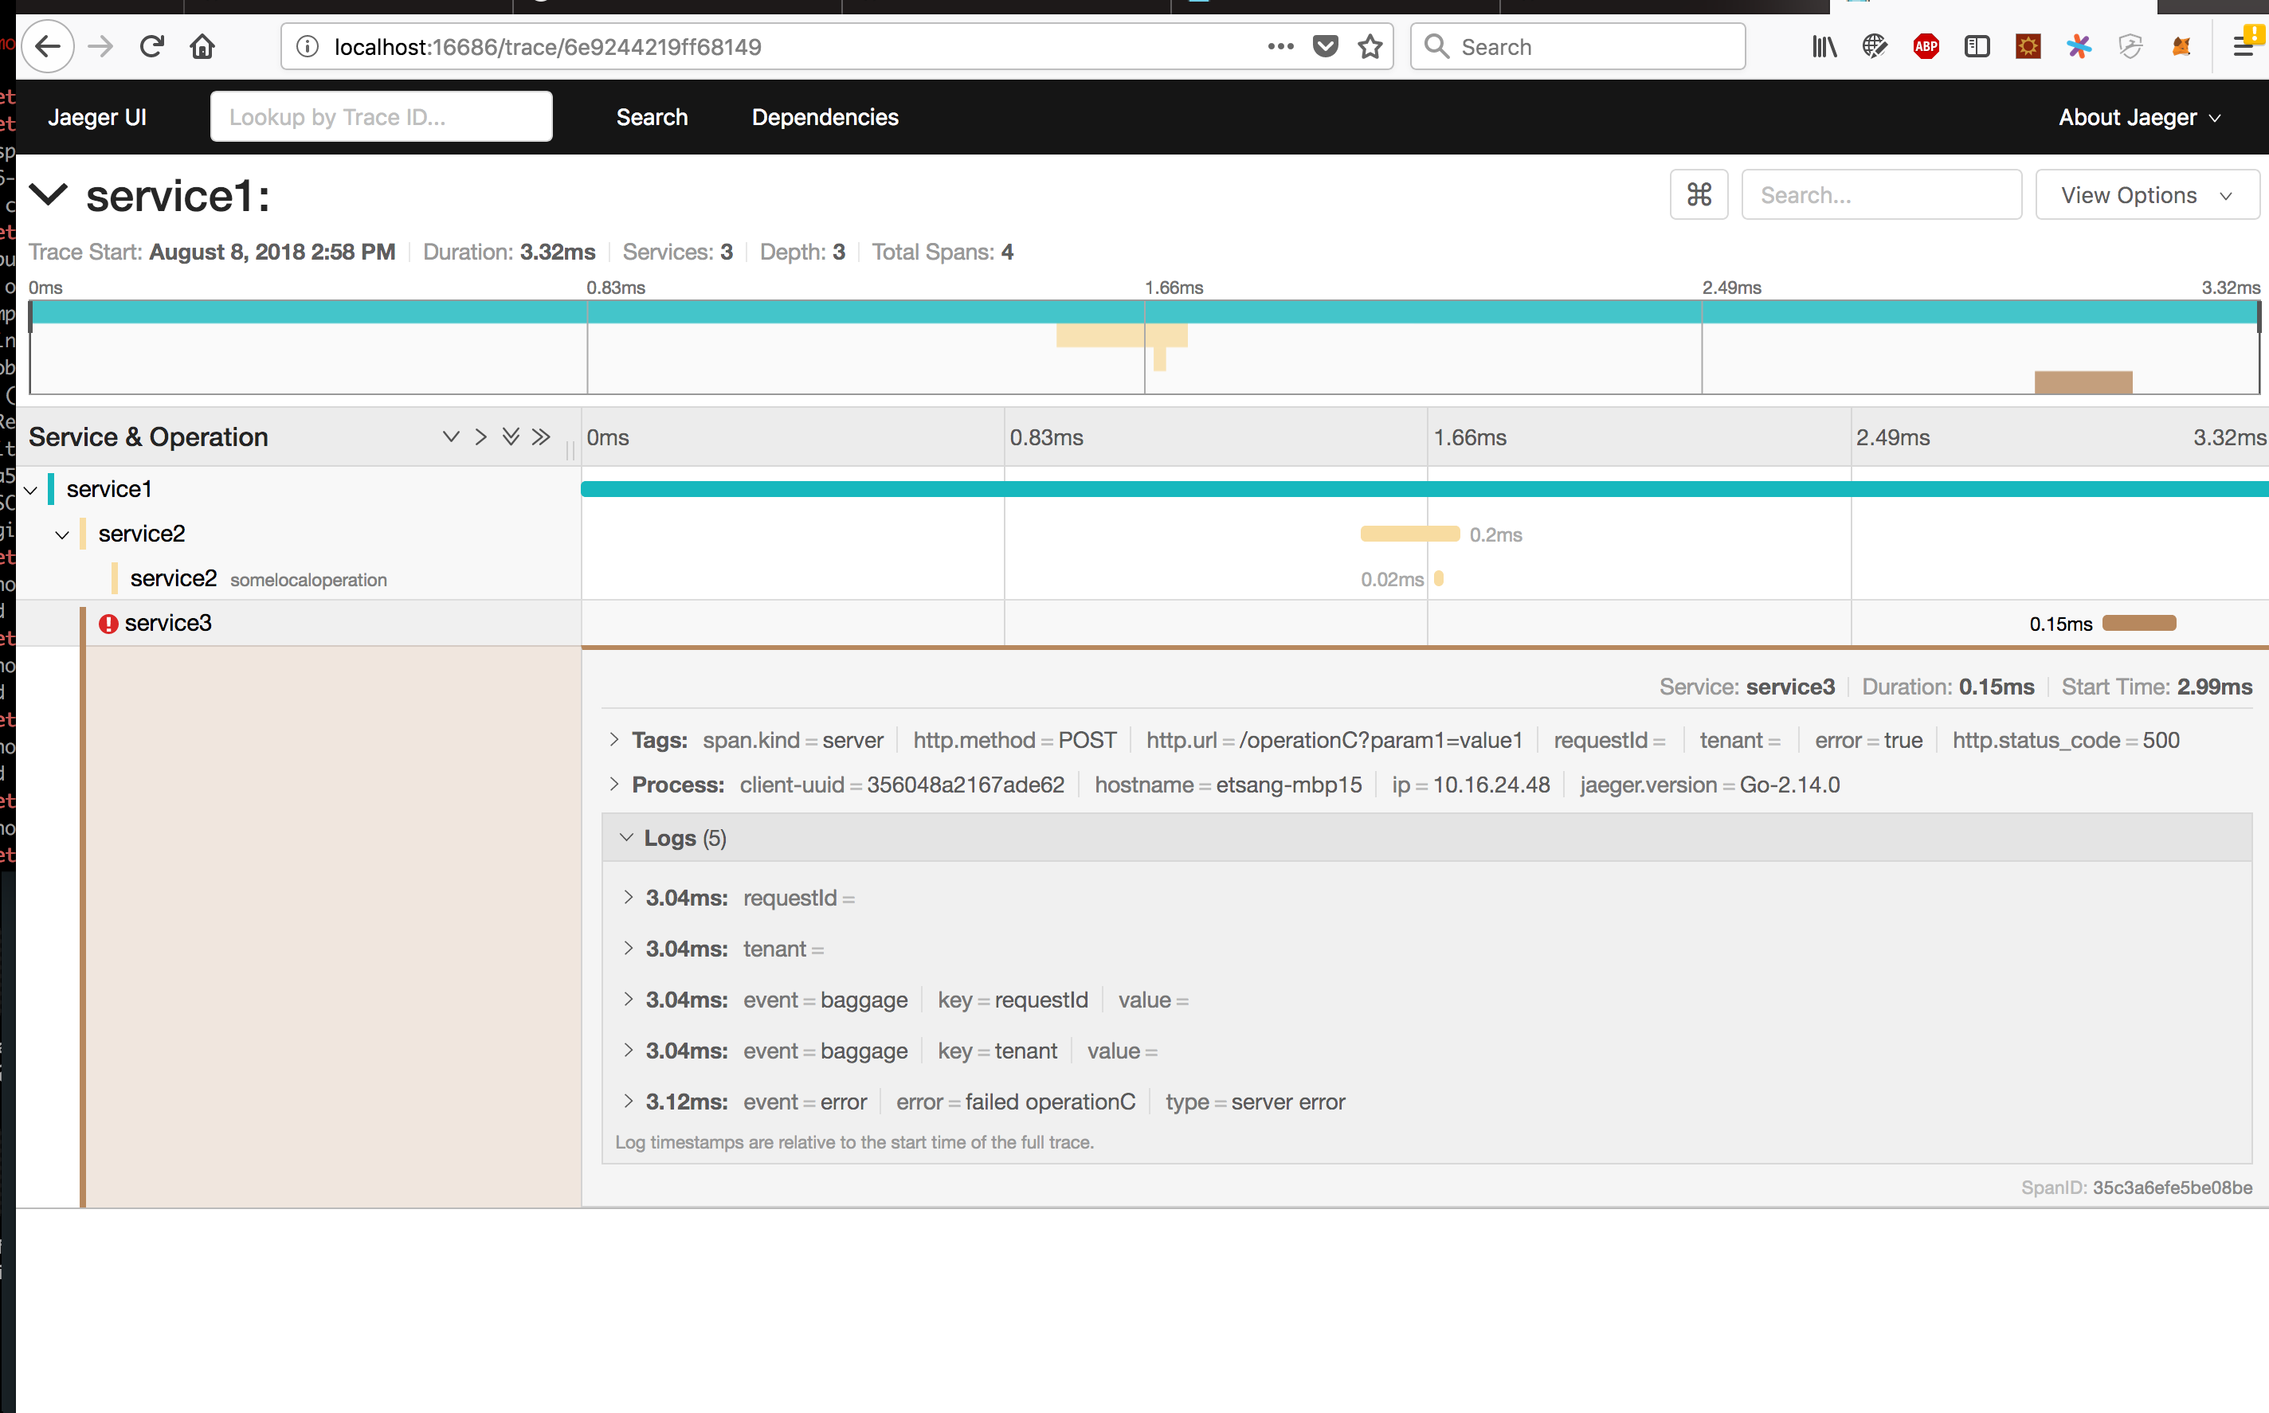
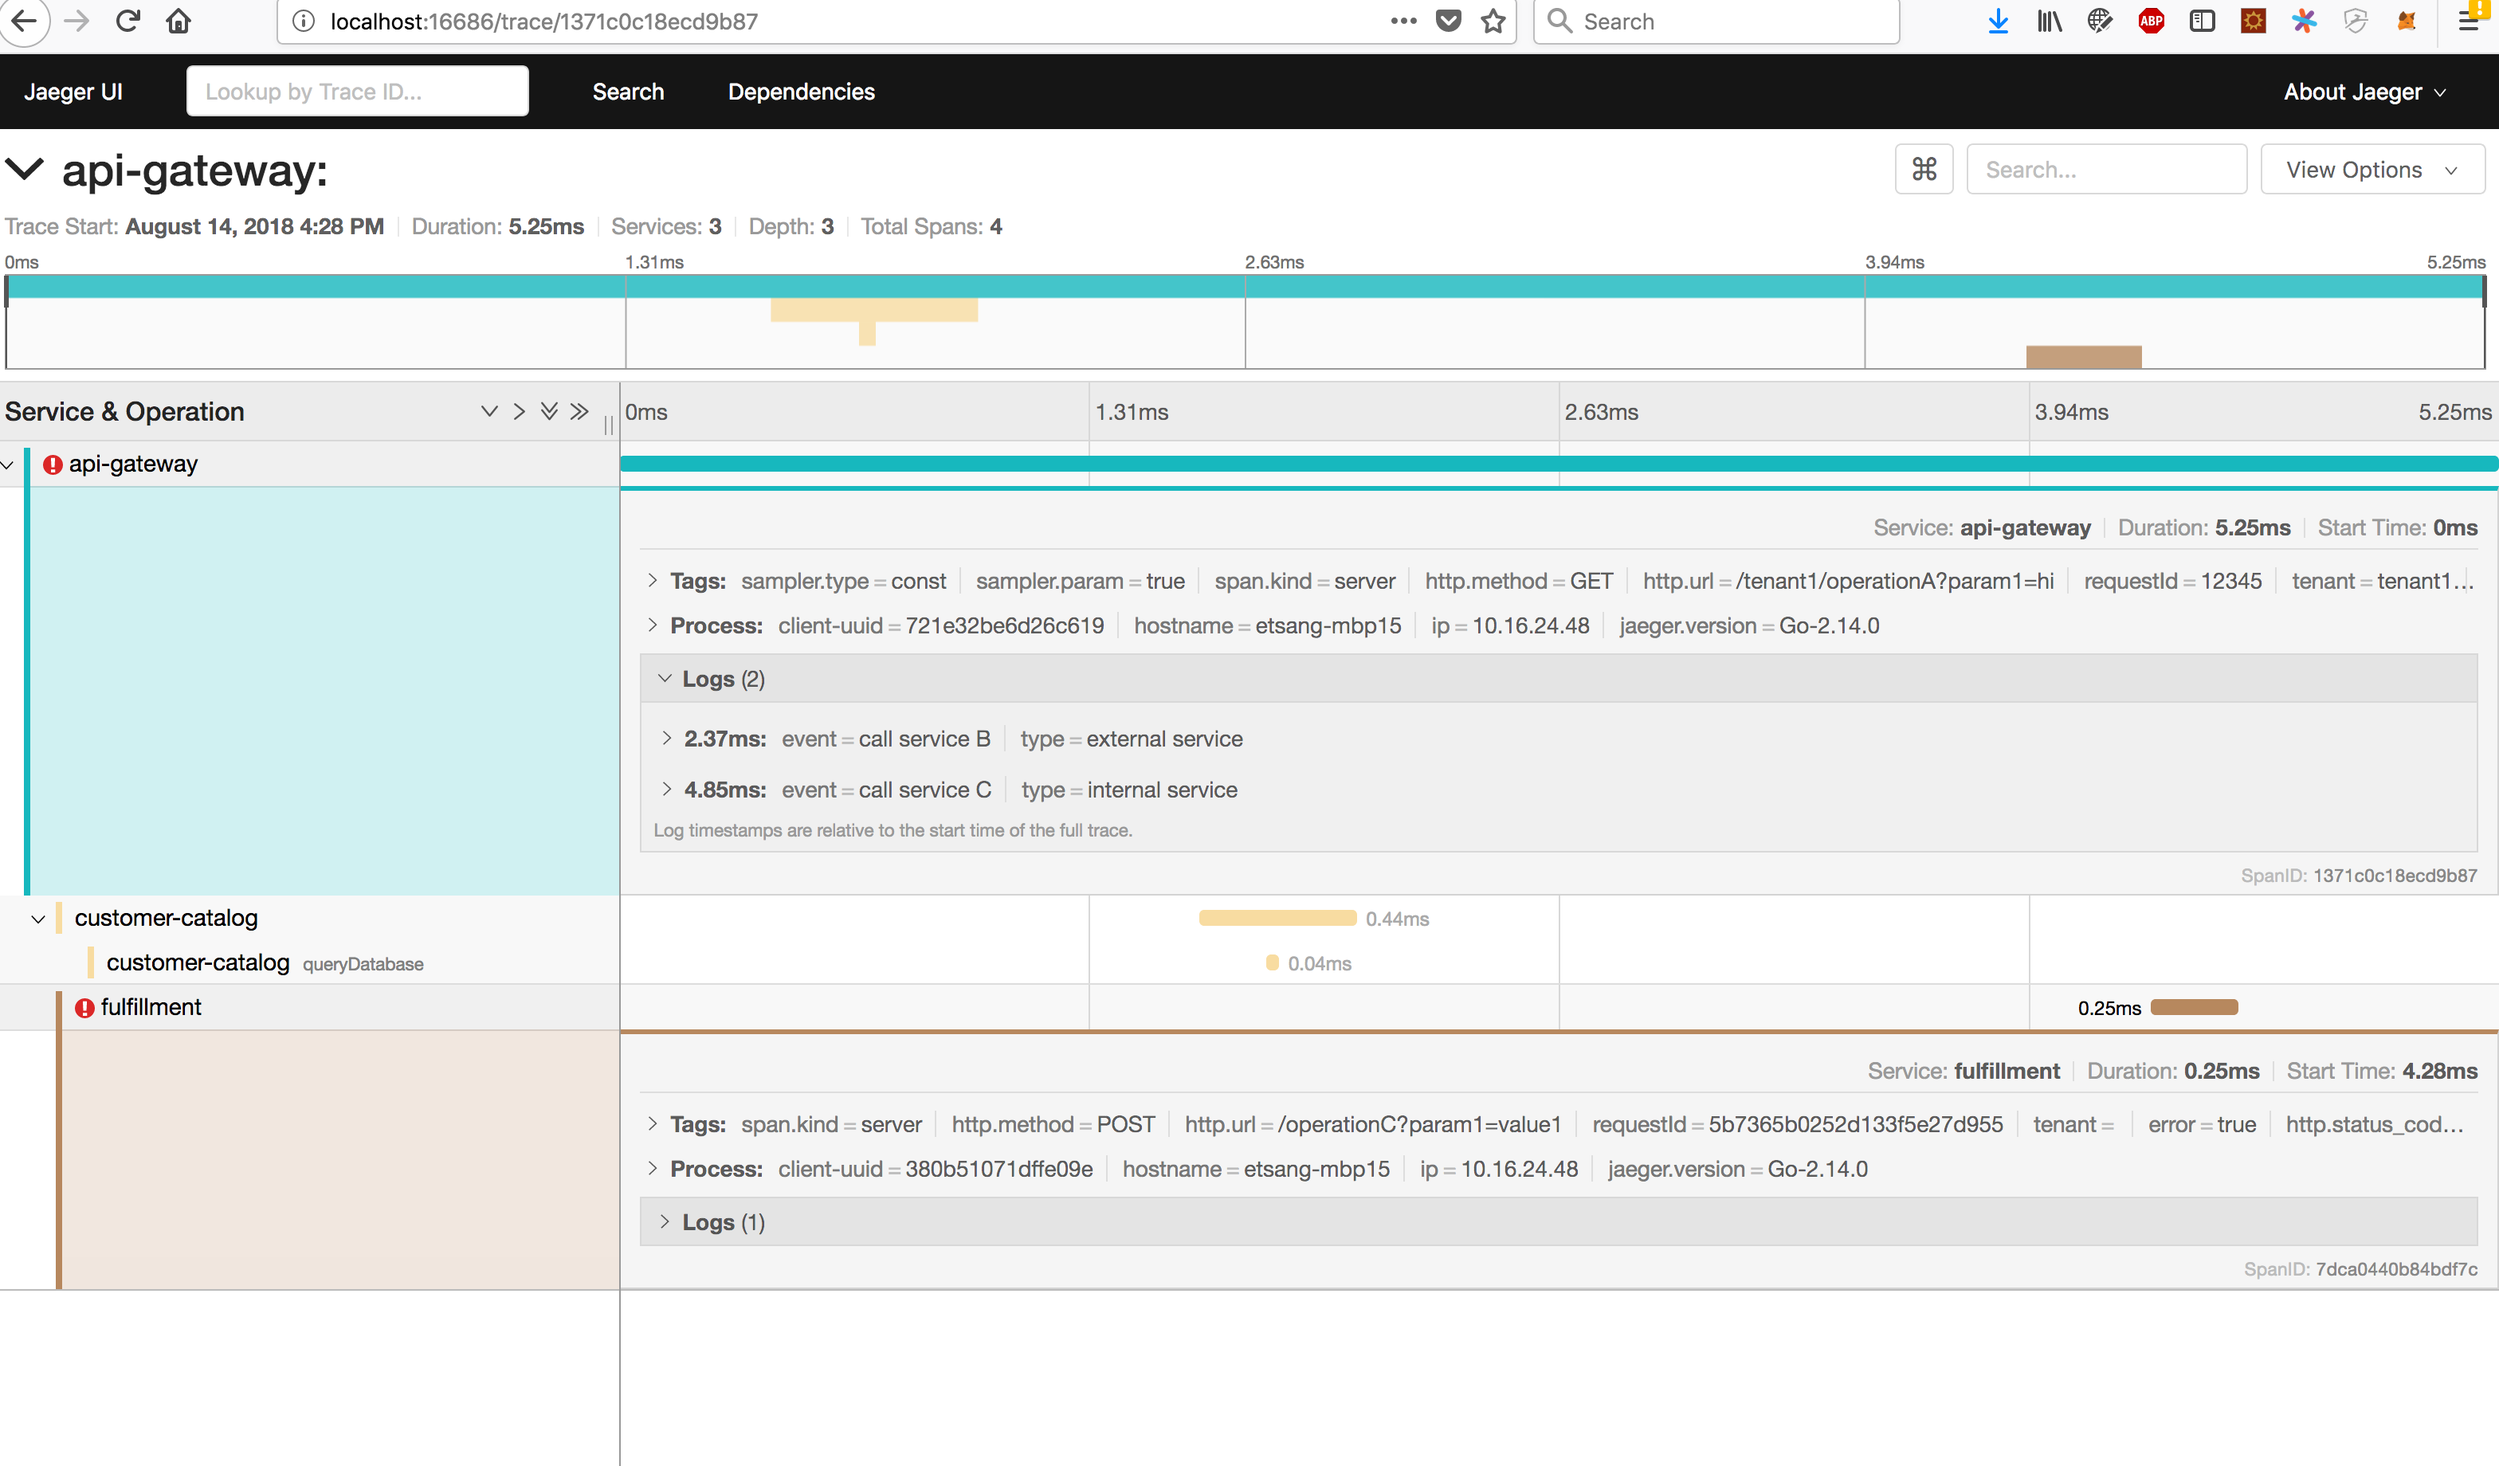
improve examples

Changed region(s): [[0.0, 0.0, 1.0, 1.0], [0.9062, 0.5891, 1.0, 0.6201]]

diff --git a/examples/opentracing/service2/service.go b/examples/opentracing/service2/service.go
@@ -45,7 +45,8 @@ func Service(hostPort string, wg *sync.WaitGroup) {
 	// Configure Route http requests
 	// Service A operationA calls serviceB then serviceC which errors out at the end
 	http.Handle("/operationB", logging.NewRequestLoggerHandler(logging.Global(),
-		ssctracing.NewHTTPOpentracingHandler(http.HandlerFunc(operationBHandler))))
+		tracing.NewRequestContextHandler(
+			ssctracing.NewHTTPOpentracingHandler(http.HandlerFunc(operationBHandler)))))
 
 	logger.Info("ready for handling requests")
 	err := http.ListenAndServe(hostPort, nil)
@@ -60,16 +61,23 @@ func operationBHandler(w http.ResponseWriter, r *http.Request) {
 	ctx := r.Context()
 	log := logging.From(ctx)
 	log.Info("Executing operation", "operation", "B")
+	fmt.Printf("***** %#v\n", ctx)
 	tenantID := tracing.TenantIDFrom(ctx)
-	ret := queryDatabase(ctx, fmt.Sprintf("SELECT tenant from Customer where tenantID=%v", tenantID))
+	ret, err := queryDatabase(ctx, tenantID)
+
 	notifySubscriber(ctx, ret)
 	w.Write([]byte(ret))
-	w.WriteHeader(http.StatusOK)
+	if err != nil {
+		w.WriteHeader(http.StatusInternalServerError)
+	} else {
+		w.WriteHeader(http.StatusOK)
+	}
 }
 
 // queryDatabase queries a fake database for some data that is crucial for completion of operation.
 // Assume that we also want to know the database information for the span.
-func queryDatabase(ctx context.Context, statment string) string {
+func queryDatabase(ctx context.Context, tenantID string) (string, error) {
+	var err error = nil
 	logger := logging.Global()
 
 	// A new span for local function, ignoring the returned context from this
@@ -87,11 +95,15 @@ func queryDatabase(ctx context.Context, statment string) string {
 	// We are a client calling the database server so set so.
 	tag.SpanKindRPCClient.Set(span)
 	tag.PeerService.Set(span, "mysql")
-	span.SetTag("sql.query", statment)
+	span.SetTag("sql.query", fmt.Sprintf("SELECT tenant from Customer where tenantID=%v", tenantID))
+
+	if tenantID == "" {
+		err = fmt.Errorf("tenantID is empty")
+	}
 	// This operation sleep some random time and should show in reporter
 	Sleep(time.Duration(1), time.Duration(2))
 	span.LogKV("event", "delay", "type", "planned db delay")
-	return "someresult"
+	return "someresult", err
 }
 
 // notifySubscriber sends the result to subscriber. This function does not

diff --git a/tracing/opentracing/http_client.go b/tracing/opentracing/http_client.go
@@ -17,6 +17,16 @@ type Client struct {
 	traceRequest   RequestFunc // Request wrapper
 }
 
+// NewRequest returns a new request from upstream ctx context.
+func NewRequest(ctx context.Context, method string, url string, body io.Reader) (*http.Request, error) {
+    req, err := http.NewRequest(http.MethodPost, url, body)
+    if err != nil {
+        return nil, err
+    }
+    //req = outBoundHTTPRequest(req.WithContext(ctx))
+    return req, err
+}
+
 // NewHTTPClient returns a new client instance from upstream ctx context.
 // It wraps http.client and add opentracing meta data into outbound http.request.
 func NewHTTPClient(ctx context.Context) *Client {
@@ -25,7 +35,7 @@ func NewHTTPClient(ctx context.Context) *Client {
 		httpClient:     &http.Client{},
 		tracer:         Global(), // assume that there is a tracer already registered.
 	}
-	c.traceRequest = OutboundHTTPRequest(c.tracer)
+	c.traceRequest = OutboundHTTPRequest()
 	return c
 }
 

diff --git a/tracing/opentracing/http.go b/tracing/opentracing/http.go
@@ -24,7 +24,7 @@ type RequestFunc func(req *http.Request) *http.Request
 // OutboundHTTPRequest returns a RequestFunc that injects a span so the server serving this rquest
 // will have the information to continue the trace (create child span etc).
 // If no such Span can be found, the RequestFunc is a noop.
-func OutboundHTTPRequest(tracer opentracing.Tracer) RequestFunc {
+func OutboundHTTPRequest() RequestFunc {
 	return func(req *http.Request) *http.Request {
 		// Retrieve the Span from request context.
 		ctx := req.Context()
@@ -53,6 +53,7 @@ func OutboundHTTPRequest(tracer opentracing.Tracer) RequestFunc {
 
 			// Inject the Span context into the outgoing HTTP Request.
 			// Sicne we are sending an HTTP request, will use the HTTP headers as carrier.
+            tracer := Global()
 			err = tracer.Inject(
 				span.Context(),
 				opentracing.HTTPHeaders,

diff --git a/examples/opentracing/service3/service.go b/examples/opentracing/service3/service.go
@@ -8,6 +8,7 @@ import (
 	"github.com/opentracing/opentracing-go/ext"
 
 	"github.com/splunk/ssc-observation/logging"
+	"github.com/splunk/ssc-observation/tracing"
 	ssctracing "github.com/splunk/ssc-observation/tracing/opentracing"
 )
 
@@ -44,7 +45,8 @@ func Service(hostPort string, wg *sync.WaitGroup) {
 	// Configure Route http requests
 	// Service A operationA calls serviceB then serviceC which errors out at the end
 	http.Handle("/operationC", logging.NewRequestLoggerHandler(logging.Global(),
-		ssctracing.NewHTTPOpentracingHandler(http.HandlerFunc(operationCHandler))))
+		tracing.NewRequestContextHandler(
+			ssctracing.NewHTTPOpentracingHandler(http.HandlerFunc(operationCHandler)))))
 	logger.Info("ready for handling requests")
 	err := http.ListenAndServe(hostPort, nil)
 	wg.Done()

diff --git a/tracing/http.go b/tracing/http.go
@@ -1,7 +1,6 @@
 package tracing
 
 import (
-	"fmt"
 	"net/http"
 	"strings"
 
@@ -32,8 +31,6 @@ func (h *requestContextHandler) ServeHTTP(w http.ResponseWriter, r *http.Request
 		requestID = bson.NewObjectId().Hex()
 	}
 	tenantID := tenantIDFromPath(r.URL.Path)
-
-	fmt.Printf("***** requestID %v, tenantID; %v urlPath: %v \n", requestID, tenantID, r.URL.Path)
 
 	ctx := r.Context()
 	ctx = WithRequestID(ctx, requestID)
